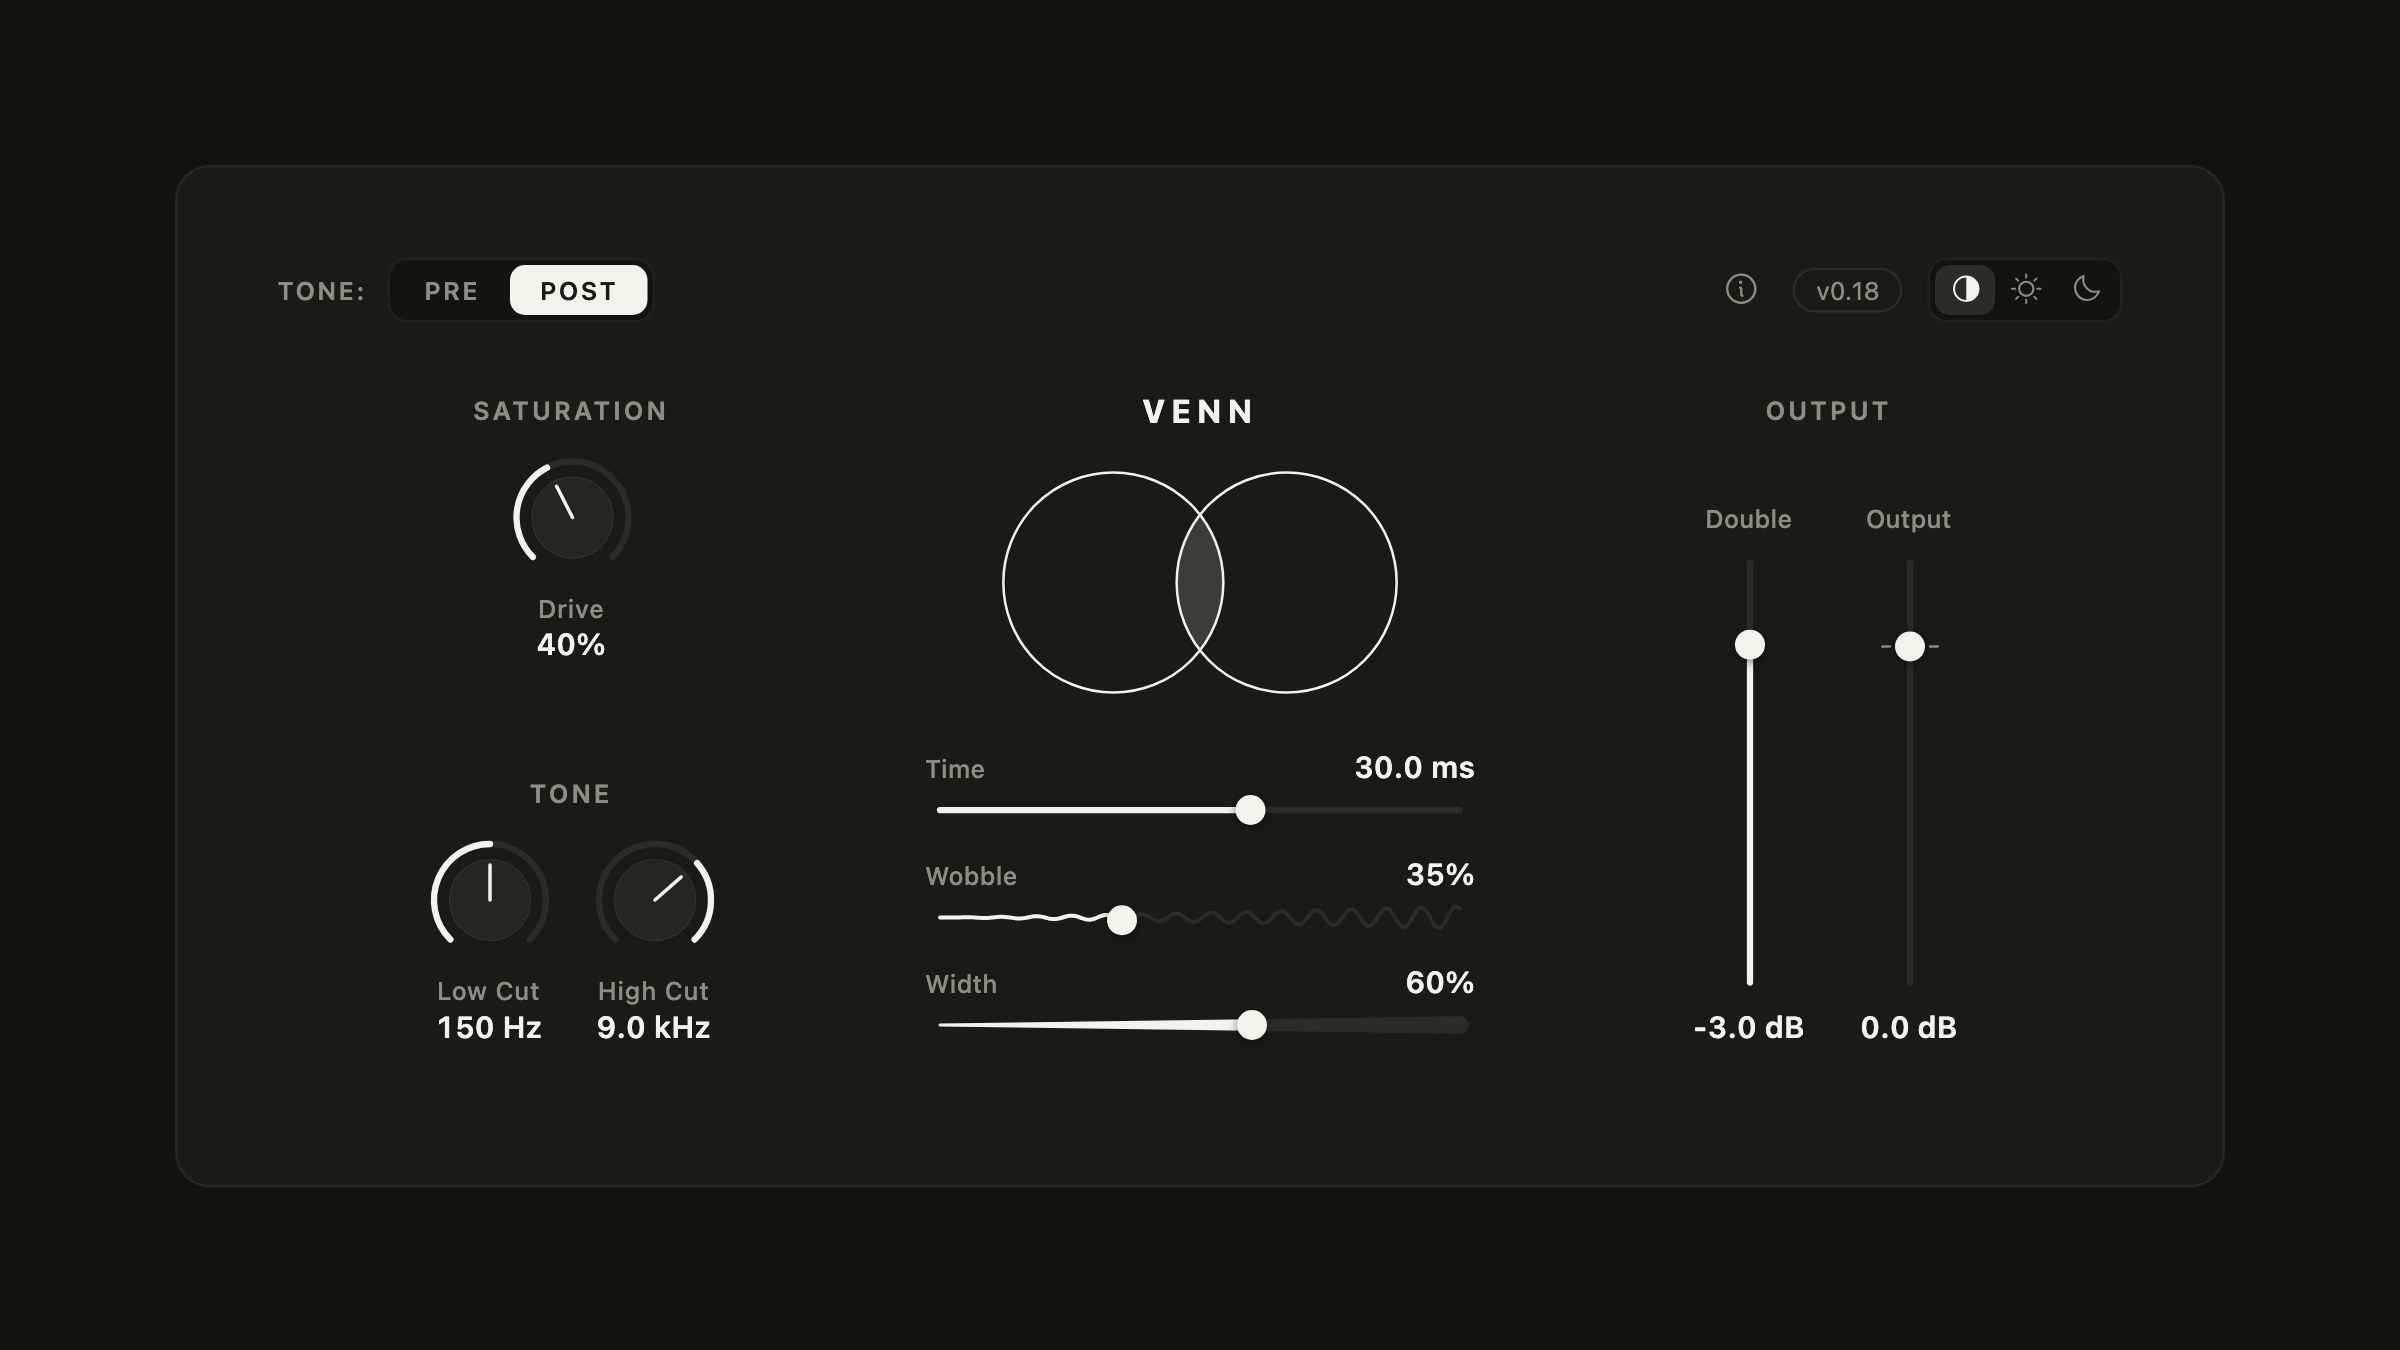
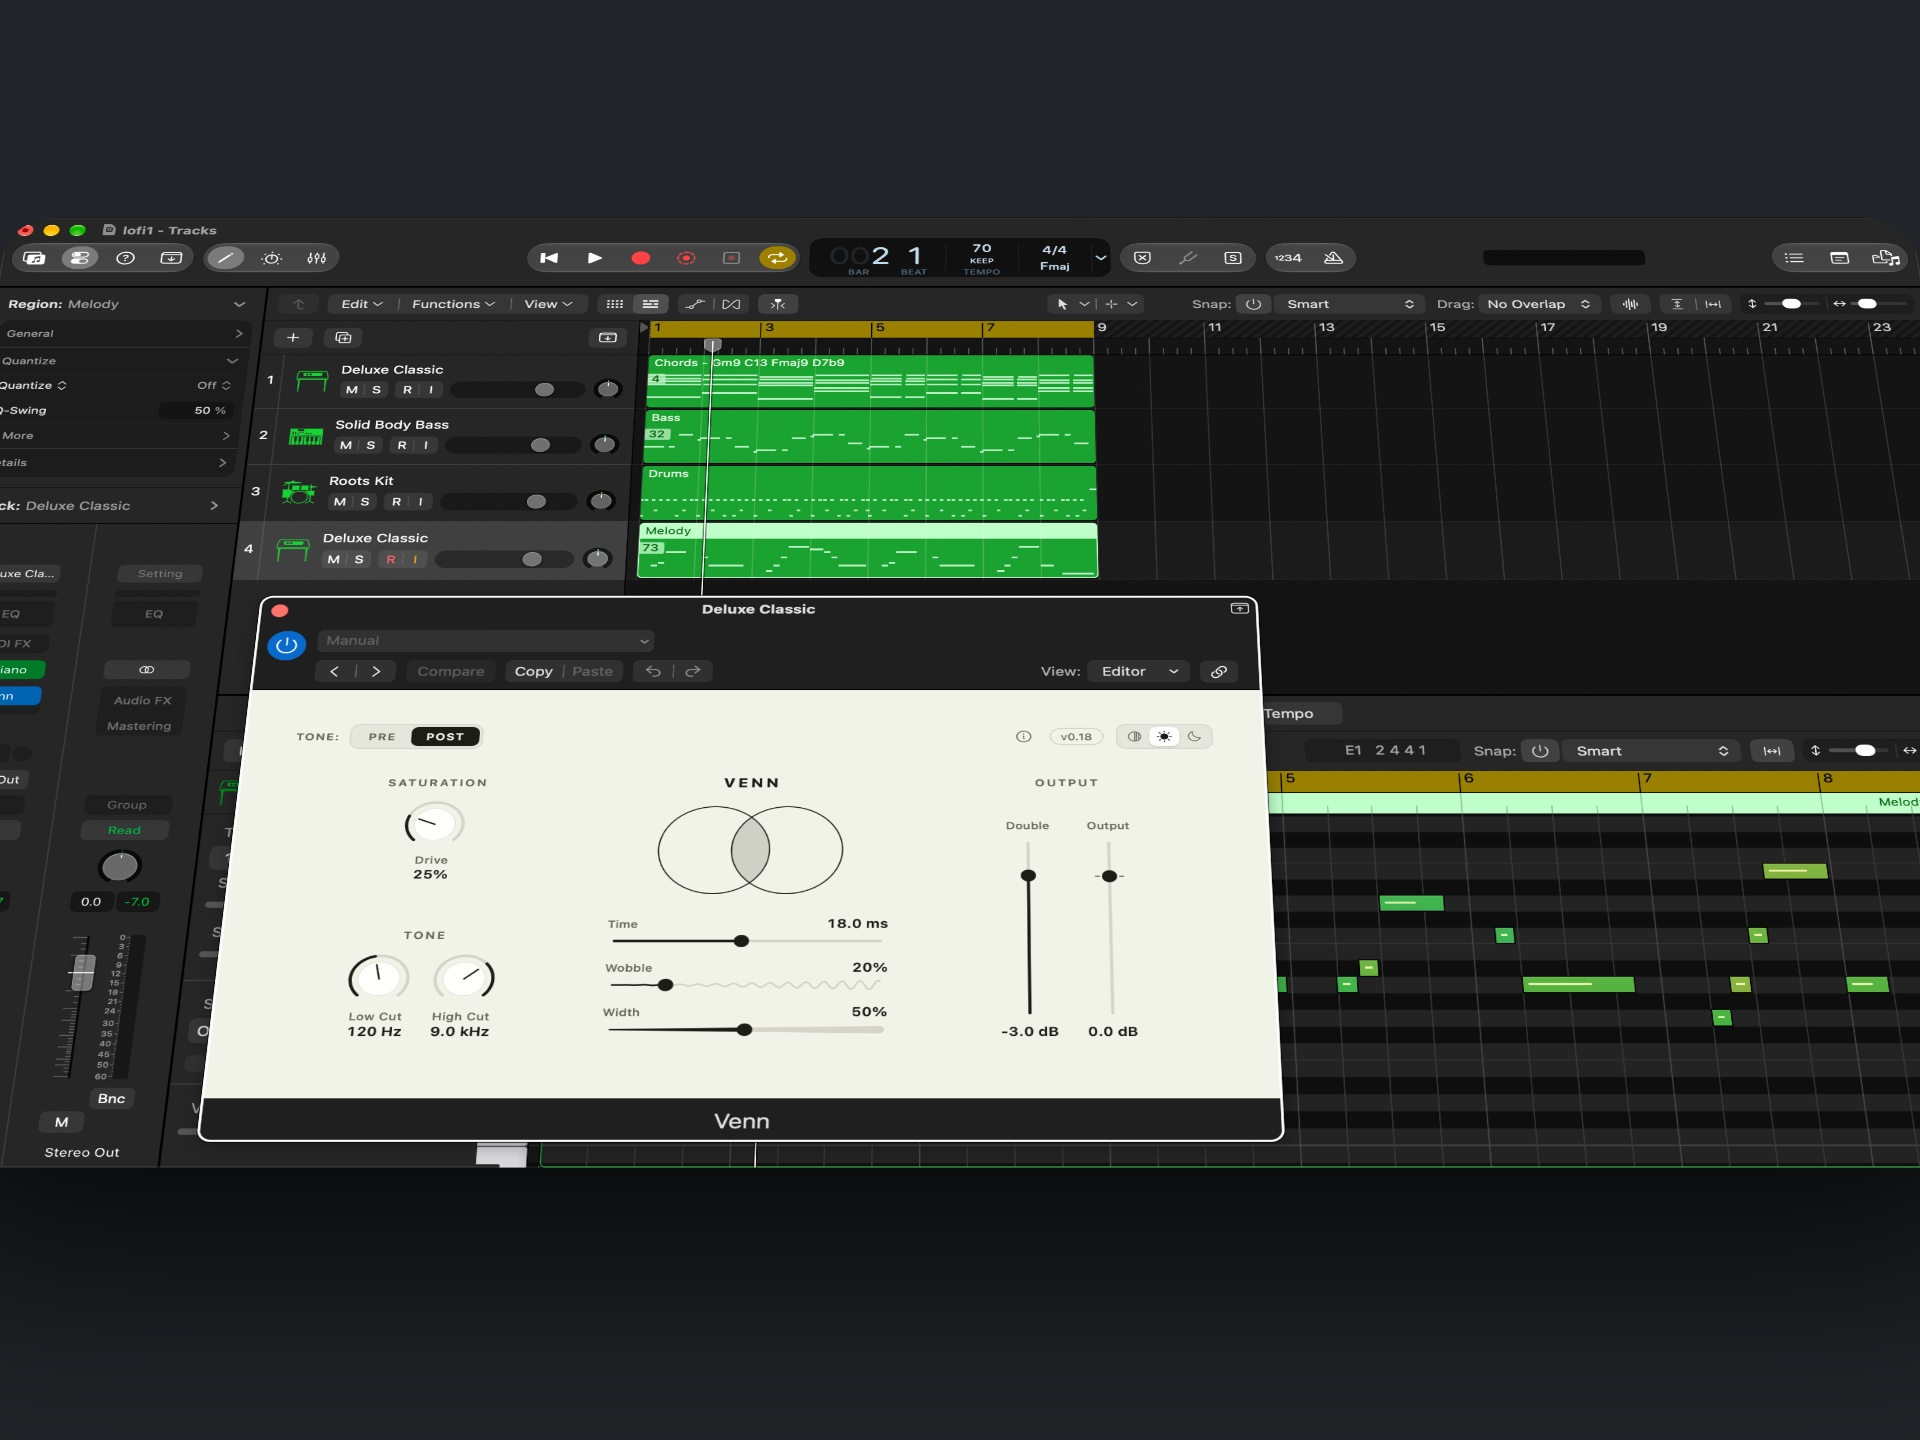
Update Venn cover; allow featuring experiments on the homepage (#13)

diff --git a/keystatic.config.ts b/keystatic.config.ts
@@ -139,6 +139,7 @@ export default config({
           ],
           defaultValue: 'draft',
         }),
+        featured: fields.checkbox({ label: 'Feature on home page' }),
         link: fields.text({
           label: 'Link',
           description:

diff --git a/src/content.config.ts b/src/content.config.ts
@@ -48,6 +48,7 @@ const experiments = defineCollection({
     z.object({
       title: z.string(),
       status,
+      featured: z.boolean().default(false),
       link: z.string().min(1),
       summary: text(),
       cover: image().nullish(),
